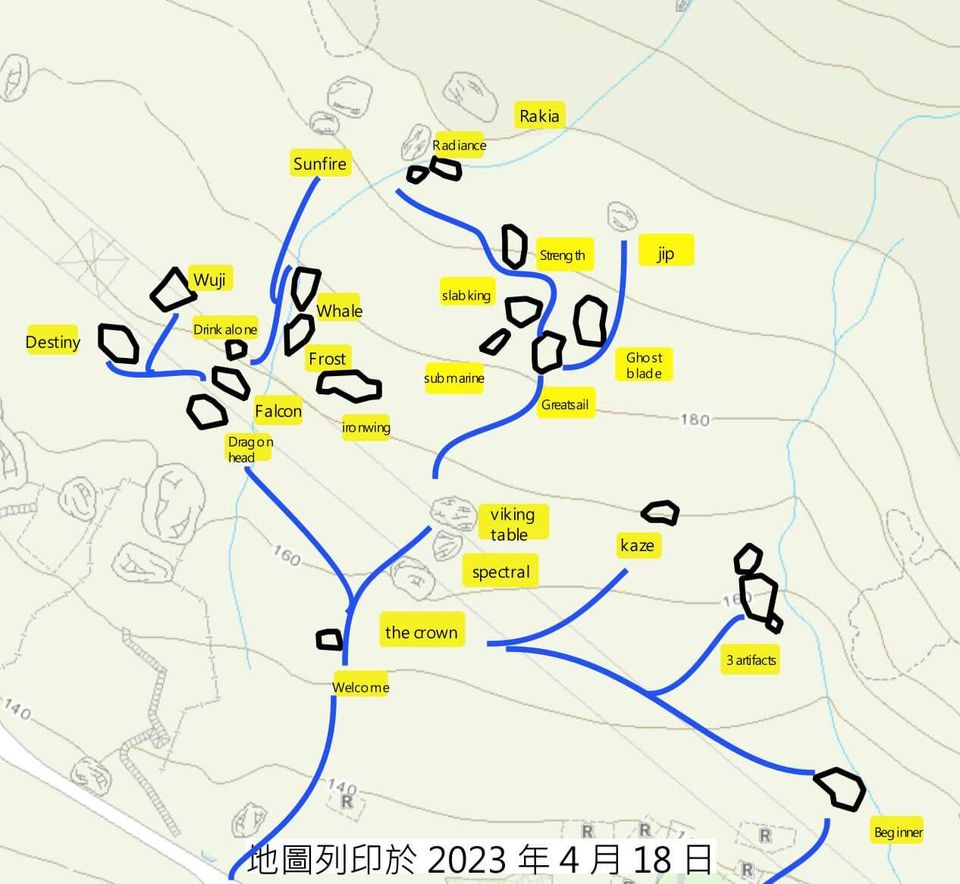
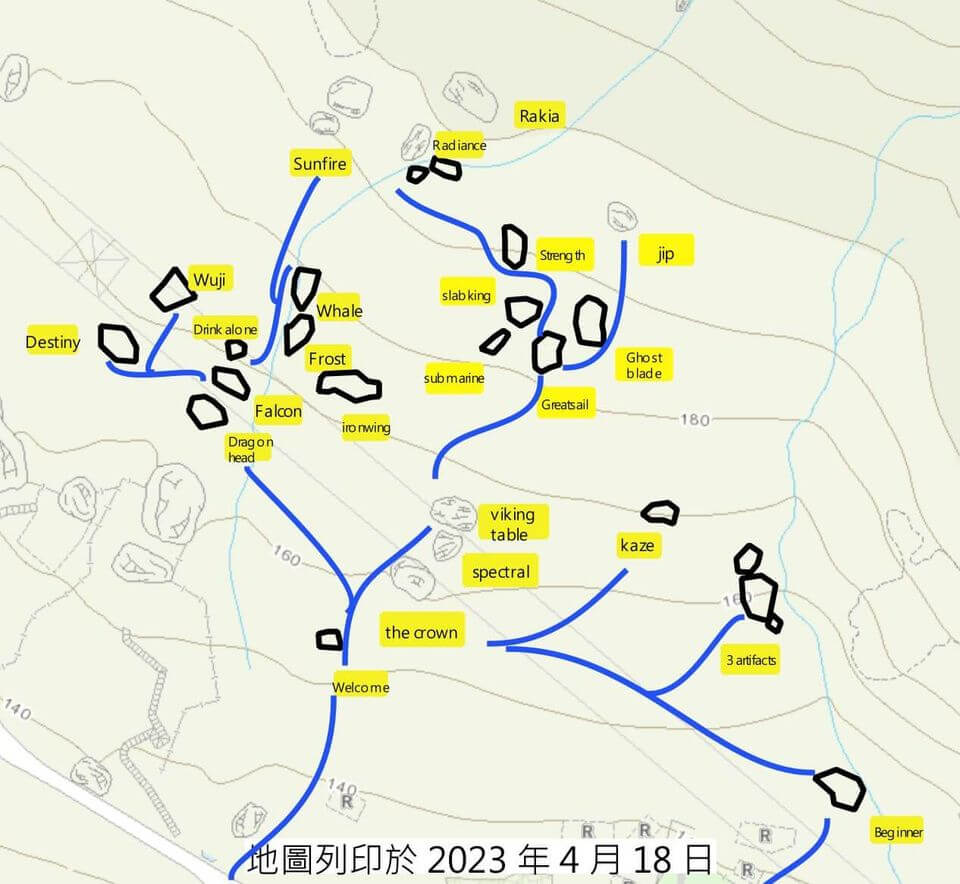
updated

diff --git a/app/page.js b/app/page.js
@@ -8,7 +8,7 @@ export default function Home() {
                 <h2>CRAGS.HK</h2>
                 <h1>Your Complete Guide to Bouldering and Climbing in Sunset Forest</h1>
                 <div className="map">
-                    <Image path="/common/sunset-forest-phase1a-w1720w.jpg" alt="Sunset Forest Bouldering Site Map | CRAGS.HK" />
+                    <Image path="/common/sunset-forest-phase1a-w4800w.jpg" alt="Sunset Forest Bouldering Site Map | CRAGS.HK" />
                 </div>
                 <p>Explore Sunset Forest, one of the premier bouldering and climbing sites in Hong Kong, all at your fingertips. At CRAGS.HK, we provide comprehensive access to detailed guides and information based on boulders, grades, and ratings, all segmented by specific zones within Sunset Forest.</p>
                 <p>Through our platform, you can enjoy minimal data usage and swift browsing speed, making it easy for you to get the latest updates and plan your climbing or bouldering adventure effortlessly. Even in areas with poor signal or when you're running low on data, we've designed our online guidebook to be easily accessible, anytime, anywhere.</p>

diff --git a/app/sunset-forest/page.js b/app/sunset-forest/page.js
@@ -31,7 +31,7 @@ export default function Home() {
             <div className="container">
                 <h1>Sunset Forest Boulder Problem Listings</h1>
                 <p>Total <strong>{routes.data.length}</strong> boulder problems developed.</p>
-                <div className="map"><Image path="/common/sunset-forest-phase1a-w1720w.jpg" alt="Sunset Forest Bouldering Site Map | CRAGS.HK" /></div>
+                <div className="map"><Image path="/common/sunset-forest-phase1a-w4800w.jpg" alt="Sunset Forest Bouldering Site Map | CRAGS.HK" /></div>
                 {boulders.data.map((boulder) => {
                     return <section className={styles.boulder}>
                         <h2 className={styles.boulderTitle}><Link title={`${boulder.id} ${boulder.name} | Sunset Forest Boulders | CRAGS.HK`} href={`/sunset-forest/boulder/${boulder.slug}`}>{boulder.id} {boulder.name} Boulder</Link></h2>
